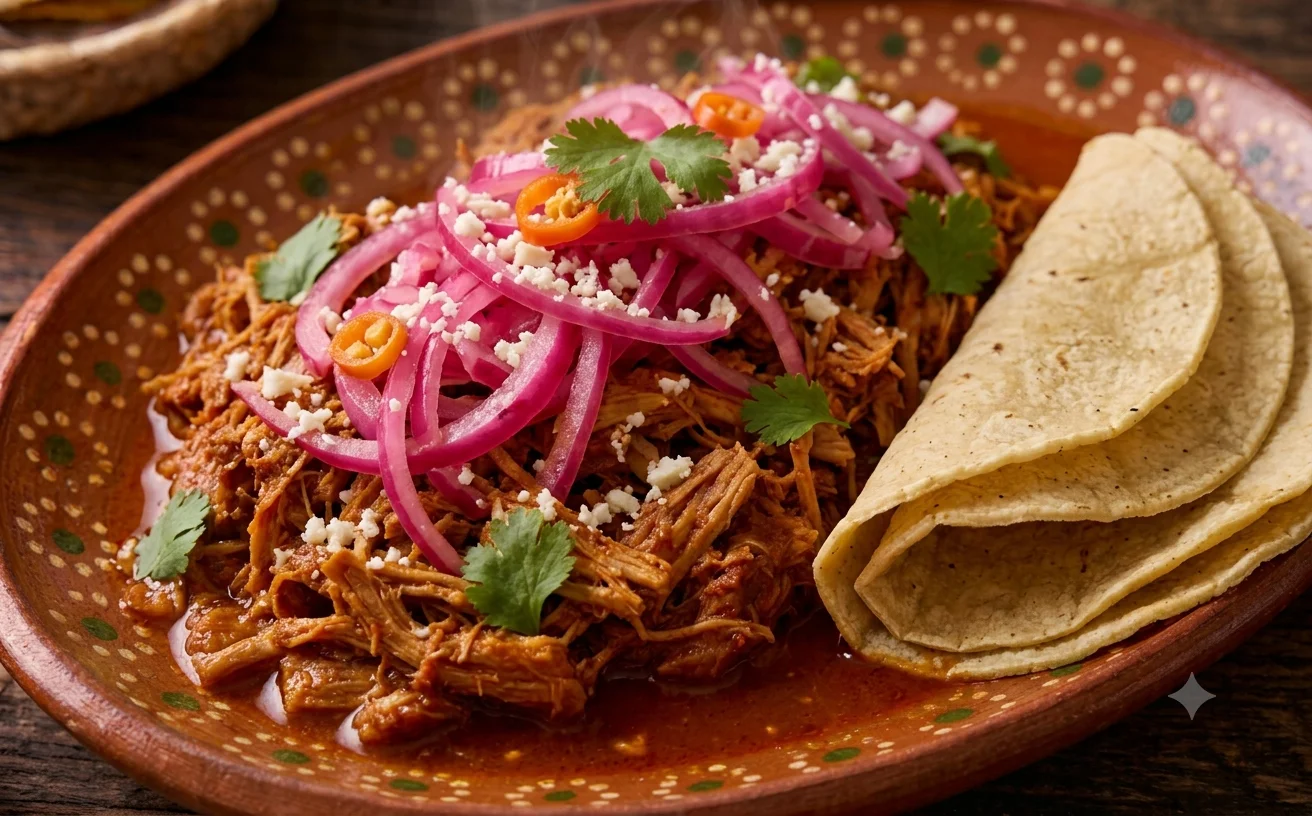
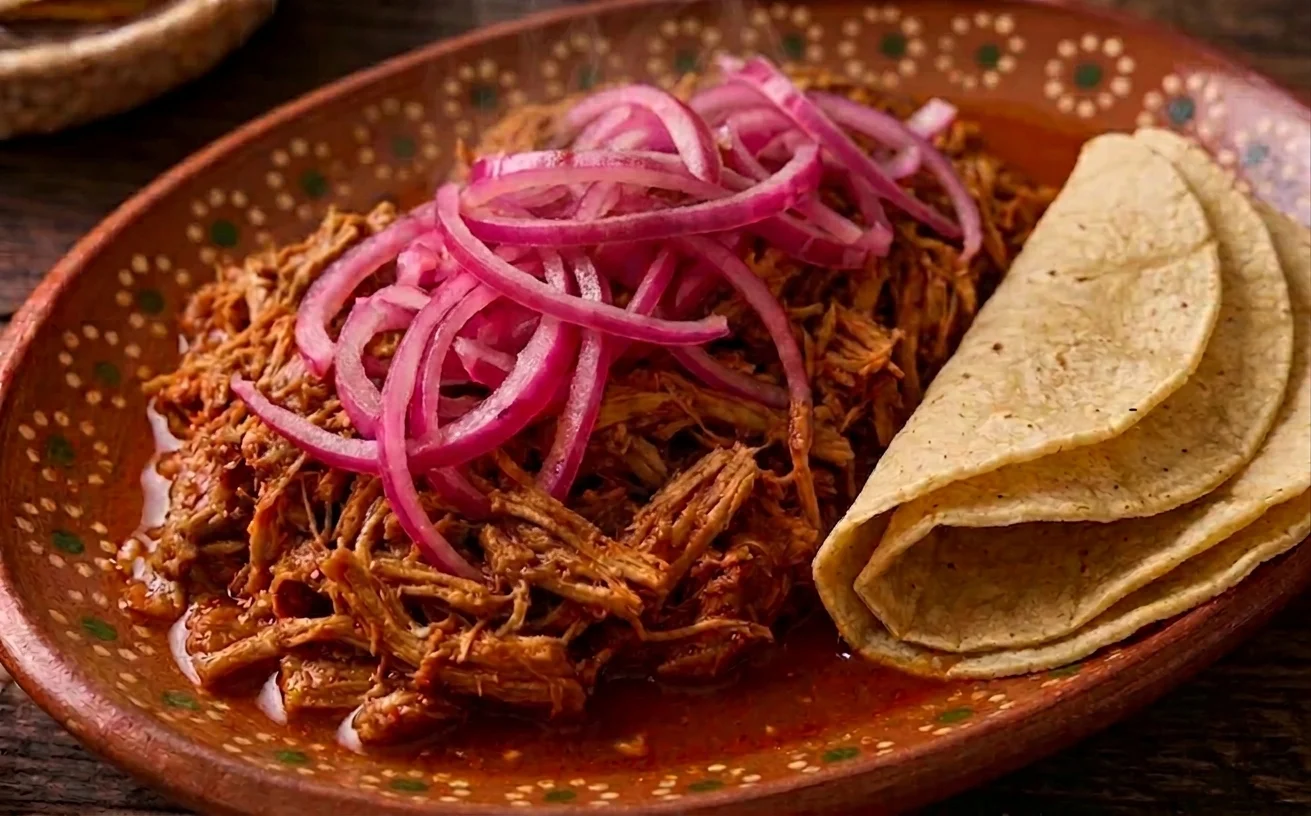
fix number cell and img dish

diff --git a/docs/dishes-data.js b/docs/dishes-data.js
@@ -99,7 +99,7 @@ const DISHES=[
         es:"Los totopos llegan ya bañados en salsa verde con setas, queso vegano, cebolla y crema vegetal encima. Mezcla suavemente con el tenedor para que la salsa cubra todo de manera uniforme, y cómelo caliente."}},
 
   // YUCATAN
-  {id:"pork-cochinita-pibil",cat:"yucatan",v:false,active:true,a:[],img:"/img/dish/Pork Cochinita Pibil.webp",imgW:800,imgH:498,video:"",
+  {id:"pork-cochinita-pibil",cat:"yucatan",v:false,active:true,a:[],img:"/img/dish/Pork Cochinita Pibil.webp",imgW:800,imgH:498,video:"2kpesiwGIr4",
     en:{n:"Pork Cochinita Pibil",d:"Pork marinated in achiote and sour orange, slow-cooked Yucatán style, with pickled red onion."},
     es:{n:"Cochinita Pibil de Cerdo",d:"Cerdo marinado en achiote y naranja agria, cocido lento estilo yucateco, con cebolla morada encurtida."},
     culture:{en:"Cochinita pibil is one of the signature dishes of the Yucatán Peninsula, with roots in Maya cooking traditions of marinating meat in achiote and slow-cooking it wrapped and buried in a pit. Today it's usually made in an oven or slow cooker, but the achiote-and-sour-orange marinade and the deep red colour stay true to its Yucatecan roots. It's a dish closely tied to the region's identity, served at everything from family meals to festive gatherings.",
